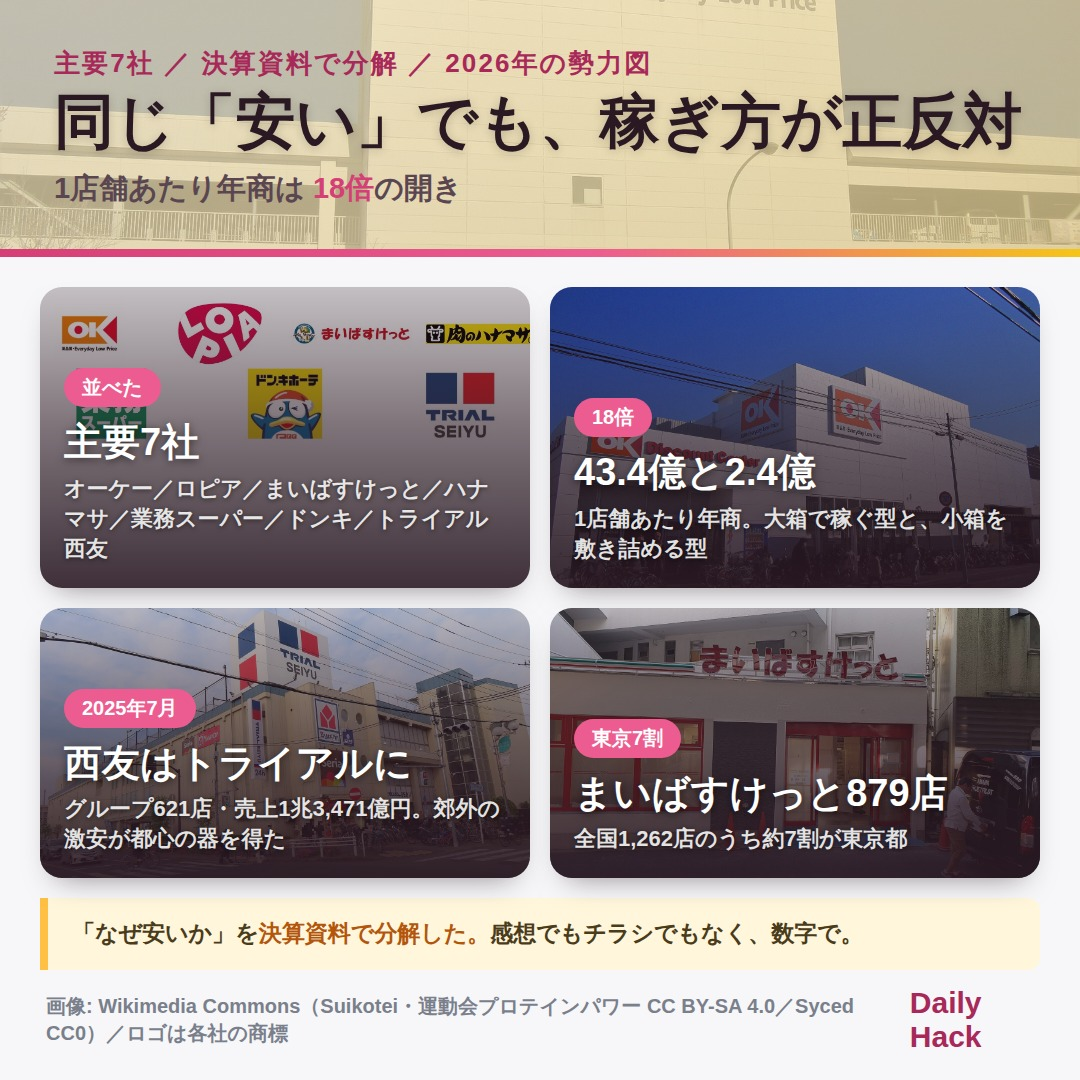
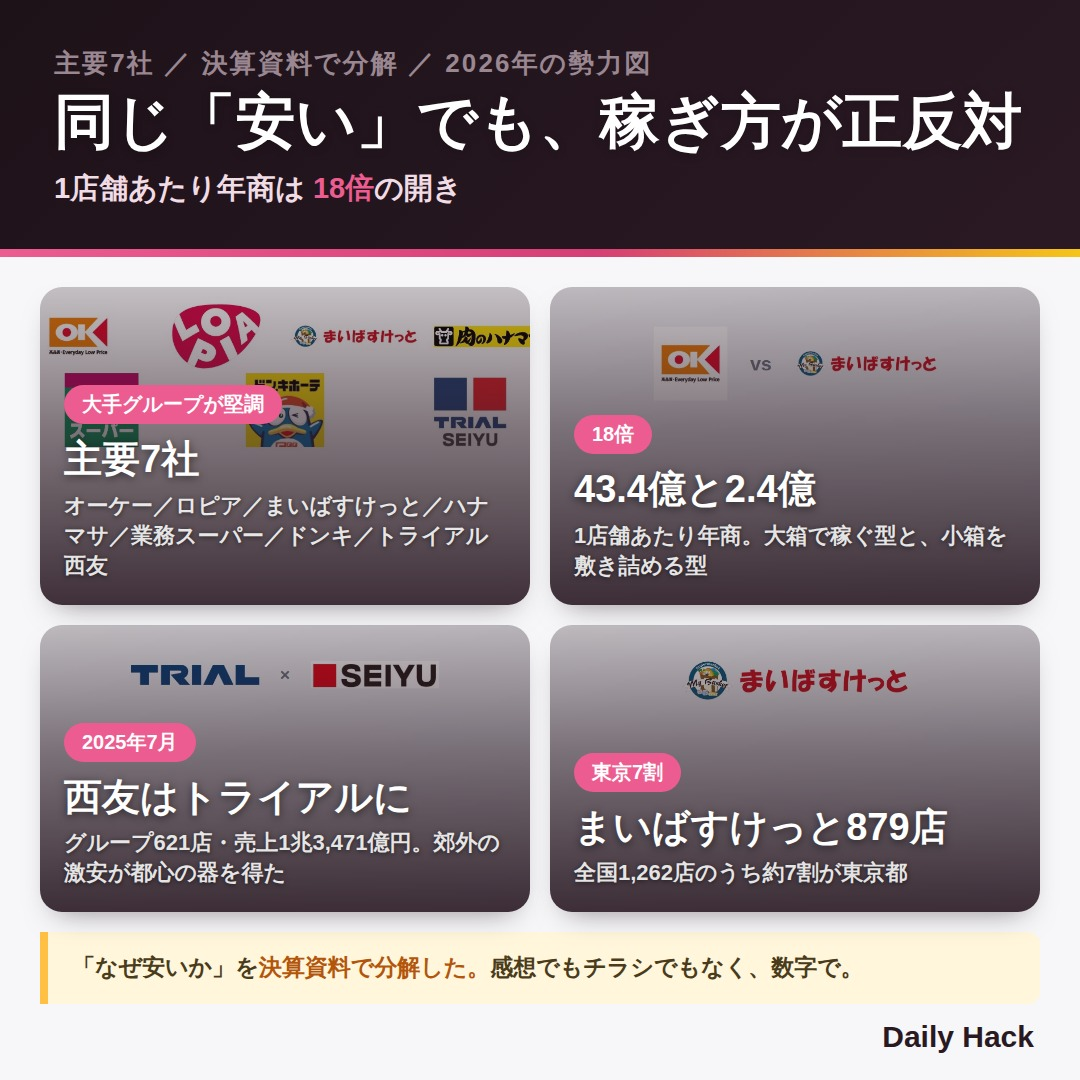
fix: 格安スーパーの指摘 6 件を反映 ＋「出所は出さない」を既定にした
## 受けた指摘（レビューページ）

| どこ | 指摘 | 直し |
| --- | --- | --- |
| 1枚目 見出し | **フォントが今までと全く違う。なぜ今回だけ変えたのか** | **書体は変えていない**（全部 Noto Sans JP）。変わっていたのは**テーマ**で、`cream` だけが明るい帯＋濃い文字に**反転**する。`ink` にして他と揃えた |
| 1枚目 カード | **「並べた」って言葉が短絡的すぎる／「大手グループが堅調」に** | バッジを差し替え |
| 1〜4枚目 下端 | **出所不要。今後もいらないからメモリに記録して**（計 4 件） | 下記 |

## 「出所を消す」だけでは済まなかった

`credit` は**権利表記**で、**CC BY / CC BY-SA は表記がライセンスの条件**。
黙って消すと違反になる。**だから素材のほうを変えた。**

`photos/_manifest.json` を見たら、写真 11 枚のうち**表記が要らないのは CC0 の 2 枚だけ**
（`hanamasa-prices` / `maibasket-shirokane`）。残りは CC BY-SA か「引用」だった。

そこで **CC BY-SA の写真を全部 外し**、各社ロゴの合成（商標・識別目的）に置き換えた。

- 帯の背景（`ok-kitayamata` CC BY-SA）→ **無地**
- カード2（`ok-hiyoshi`）→ **オーケー × まいばすけっとのロゴ**
- カード3（`trial-seiyu-hanakoganei`）→ **トライアル × 西友のロゴ**
- カード4 → **まいばすけっとのロゴ**
- 2枚目 → **`maibasket-shirokane`（CC0・実写）**
- 3枚目 → `hanamasa-prices`（CC0）のまま、`credit` だけ削除
- 4枚目（`ok-isehara`）→ **オーケー／トライアル西友／ロピアのロゴ**

**これで出所の行そのものが不要になった。** `_note` に「なぜ出所が無いか」を残してある。

## ロゴを全面に使うと、白い見出しが埋もれた

ロゴは白背景のものが多い。**全面用は下 40% を暗くしてから**文字を乗せる。
（途中で `<body>` を二重に書いてしまい、**ロゴが左にずれて画面外に出た。**
背景はクラスではなく style に直接 入れる形に直した）

## 文面

レビューページで書き換えられた 2 本をそのまま取り込んだ。

    super [1/2] 237 / 280（余裕 43）
    super [2/2] 190 / 280（余裕 90）

## メモリに記録した（指示どおり）

- `CLAUDE.md` 最上位ルール 8 に「**告知画像に出所の行を出さない**」を追加。
  **使ってよい素材 / 使わない素材**の表つき
- `x-post-images` スキル §0 のルール 4 を差し替え、**§3 を全面的に書き直した**。
  サンプル JSON からも `source` / `credit` を外した（そのまま写されるため）

## 費用

**LLM を呼ばない。** 1 回 $0 / 1 日 $0 / 1 か月 $0。
[…]

diff --git a/scripts/image-review/page.html b/scripts/image-review/page.html
@@ -234,10 +234,10 @@
     {
       key: "super", title: "都心の格安スーパー 2026", slug: "tokyo-discount-supermarket-2026",
       images: [
-        { file: "1-summary.jpg",     name: "表紙（4カード）", cap: "同じ「安い」でも、稼ぎ方が正反対" },
-        { file: "2-trial-seiyu.jpg", name: "2枚目",          cap: "西友の建物に「TRIAL SEIYU」" },
-        { file: "3-hanamasa.jpg",    name: "3枚目",          cap: "965gで、税込927円" },
-        { file: "4-tv.jpg",          name: "4枚目",          cap: "くるみパン259円、カツ丼299円" }
+        { file: "1-summary.jpg",   name: "表紙（4カード）", cap: "同じ「安い」でも、稼ぎ方が正反対" },
+        { file: "2-maibasket.jpg", name: "2枚目",          cap: "1,262店のうち879店が東京都" },
+        { file: "3-hanamasa.jpg",  name: "3枚目",          cap: "965gで、税込927円" },
+        { file: "4-tv.jpg",        name: "4枚目",          cap: "くるみパン259円、カツ丼299円" }
       ]
     }
   ];

diff --git a/.claude/skills/x-post-images/SKILL.md b/.claude/skills/x-post-images/SKILL.md
@@ -20,7 +20,7 @@ node scripts/gen-x-cards.mjs ops/data/x-cards/<slug>.json
 | 1 | **正方形 1080×1080。** ブログのアイキャッチ（1600×900）を流用しない | タイムラインでの占有面積が小さくなる |
 | 2 | **同じ画像を 2 度使わない。** 投稿ごと・スレッドの位置ごとに別の絵 | 手抜きに見える。実際に指摘された |
 | 3 | **2 枚目以降はアイキャッチではなく実写。** 記事内の実物写真を使う | 何の店か伝わらない |
-| 4 | **出典を画像の中に焼き込む** | X では画像だけが独り歩きする |
+| 4 | **出所の行は出さない**（2026-09-20）。だから**権利表記が要る素材を使わない**（§3） | 消すだけだとライセンス違反。素材ごと変える |
 | 5 | **出す前に `Read` で全部開いて自分の目で見る** | 灰色の空カードが黙って出力される（実際に起きた） |
 | 6 | **キャラを置いたら下端の切り口を見る。** `mask-image` で溶かす | 白いセーラー服の裾が四角い箱に見える（実際に指摘された） |
 | 7 | **1 枚目の帯は、その場所の実写を薄く敷く**（`bgImage`）。**キャラは置かない** | どの記事でも同じ絵になり、帯を見ても どこの話か分からない（§1 が既定の作り方） |
@@ -29,8 +29,8 @@ node scripts/gen-x-cards.mjs ops/data/x-cards/<slug>.json
 
 | 位置 | 種類 | 中身 |
 | --- | --- | --- |
-| 1 枚目 | `cover` | **帯（背景に実写を薄く）** ＋ **カード格子** ＋ 黄色の注記 ＋ 出典 |
-| 2 枚目〜 | `photo` | 実写を全面 ＋ 下に 施設名・売り・スペック・出典 |
+| 1 枚目 | `cover` | **帯（背景に実写を薄く）** ＋ **カード格子** ＋ 黄色の注記（**出所は出さない**・§3） |
+| 2 枚目〜 | `photo` | 実写を全面 ＋ 下に 施設名・売り・スペック（**出所は出さない**・§3） |
 
 **カードは記事の `.event-pick`（`src/styles/global.css`）と同じ骨格。**
 
@@ -51,7 +51,7 @@ node scripts/gen-x-cards.mjs ops/data/x-cards/<slug>.json
   "columns": 2,
   "cards": [ /* 6 枚 */ ],
   "note":   "<b>いちばん効く一文。</b>補足",
-  "source": "画像: ◯◯ プレスリリース／◯◯ 公式",
+  // **`source` は書かない**（§3）。`credit` も同じ
   "theme":  "plum"
 }
 ```
@@ -71,7 +71,7 @@ node scripts/gen-x-cards.mjs ops/data/x-cards/<slug>.json
 
 1. **スクリムを重ねる**（`.bgscrim`）。写真の明るい部分で `kicker` が沈む。
    生成側が自動で入れるので JSON には書かない
-2. **借りている写真なら `source` にクレジットを出す。** 帯に敷いても引用は引用
+2. **借りている写真は敷かない。** 出所の行を出さないので、表記が要る素材は使えない（§3）
 3. **素材に無いものを、有るように扱わない。** IKEA豊洲では
    **ららぽーとの外観写真が無かった**ので、店舗入口で代えた。
    **代えたことを利用者に言う**（黙って近い絵を使わない）
@@ -127,15 +127,15 @@ node scripts/gen-x-cards.mjs ops/data/x-cards/<slug>.json
         "title": "スパ＆ホテル<br>舞浜ユーラシア",           // br で折る
         "meta": "千葉・舞浜／70人収容の展望サウナ" }
     ],
-    "note": "この6つを含めて<b>首都圏で17施設。</b>",       // b はオレンジになる
-    "source": "出典: 各施設公式 ほか"
+    "note": "この6つを含めて<b>首都圏で17施設。</b>"        // b はオレンジになる
+    // **`source` は書かない**（§3）
   },
   "photos": [
     { "file": "2-maihama.jpg", "img": "facilities/maihama.jpg",
       "badge": "♻ 1/15 リニューアル", "name": "スパ＆ホテル 舞浜ユーラシア",
       "lead": "70人収容・<b>国内最大級の開口面積</b>の展望サウナ",
-      "specs": ["千葉・舞浜", "2,100円〜", "男女"],
-      "credit": "画像: スパ＆ホテル 舞浜ユーラシア 公式" }
+      "specs": ["千葉・舞浜", "2,100円〜", "男女"] }
+      // **`credit` は書かない**（§3）。書かずに済む素材だけを使う
   ]
 }
 ```
@@ -165,25 +165,47 @@ node scripts/gen-x-cards.mjs ops/data/x-cards/<slug>.json
 > ビットマップを拾うと縁が出るうえライセンス表記も要る。
 > どうしても実物が要るなら `ops/tasks` 経由で Mac に取らせる（Mac からは届く）。
 
-## 3. 出典は必ず画像の中へ
+## 3. 出所の行は出さない。**だから素材のほうを選ぶ**
 
-施設写真の多くは各施設の**公式サイト**から取っている（CC ではない）。
-記事の中なら `figcaption` に出典があるが、**X に出すと画像だけが独り歩きする。**
+**2026-09-20 に指示された。**
 
-**記事の `figcaption` と同じクレジットを `credit` に書く。**
-記事の外に出す画像は、記事の外でも出典が読めなければならない。
+> 出所不要。今後もいらないからメモリに記録して。
 
-### ただし「権利表記」と「中身の担保」を分ける
+**`source` も `credit` も出さない。** 1 枚目の下端も、2 枚目以降の下端も空にする。
 
-2026-09-05 に **1 枚目の出典行を消すよう指示された**（「公式サイトで確認」を
-帯と下端で 2 回 見せていて、告知としてくどかった）。**この既定は利用者の指示より上ではない。**
+### 消すだけでは済まない
 
-| | 例 | 消してよいか |
-| --- | --- | --- |
-| **権利表記** | `credit`「画像: 松屋フーズ 公式サイト」——**他人の写真を借りている** | **消さない** |
-| **中身の担保** | `source`「出典: 各チェーン公式サイト」——値段の裏取りを示すだけ | **本文で言えるなら外してよい** |
+`credit` は**権利表記**で、**CC BY / CC BY-SA は表記がライセンスの条件**である。
+黙って消すと違反になる。**だから素材のほうを変える。**
 
-迷ったら「①他人の著作物を載せているか → 残す ②事実の裏取りか → 本文で言えるなら外す」。
+| 使ってよい（表記が要らない） | 使わない（表記が要る） |
+| --- | --- |
+| **CC0 / パブリックドメイン** | **CC BY**（表示） |
+| **各社のロゴ**（商標・識別目的。CLAUDE.md 最上位ルール 17） | **CC BY-SA**（表示・継承） |
+| **App Store 掲載素材**（記事で使っているもの） | 「引用（出典表記）」の素材 |
+| **自分で作った図・合成** | 各施設の公式サイトから借りた写真 |
+
+### 組む前にライセンスの一覧を見る
+
+```bash
+cat public/images/<slug>/photos/_manifest.json
+```
+
+**CC BY-SA しか無い題材なら、ロゴと数字のカードで組み直す。**
+実際にそうした（2026-09-20・都心の格安スーパー）。写真 11 枚のうち使えたのは
+**CC0 の 2 枚だけ**だったので、残りは各社ロゴの合成に置き換えた。
+
+**`ops/data/x-cards/<slug>.json` の `_note` に「なぜ出所が無いか」を書き残す。**
+あとから CC BY-SA を戻す人が、出所の行も戻せるように。
+
+### ロゴを全面に使うときは、下を暗くする
+
+ロゴは白背景のものが多く、**明るい画像になって白い見出しが埋もれる**（実際に埋もれた）。
+
+| | やること |
+| --- | --- |
+| 全面用（1080×1080） | **下 40% を暗くしてから**文字を乗せる |
+| カード用（1000×560） | **絵を上側に置く**（下半分に濃いグラデーションと文字が来る）。横は `cover` で**左右 17% ずつ切れる**ので中央 66% に収める |
 
 ## 4. 落とし穴（全部 実際に踏んだ）
 
@@ -234,6 +256,10 @@ node scripts/gen-x-cards.mjs ops/data/x-cards/<slug>.json
 | 2026-09-20 | **ヘルスリーも追加して／かつてはとんでもない爆益だった**（3 枚目を指して） | 記事に裏が在った（`STEPN｜初期投資が要るのはここだけ`）。**2022年に GST が 500円ほど → 2026年1月時点で 1円未満。** 数字は必ず記事から引く。アプリ画面を 3 つ 並べる構成に変え、`credit` を消した |
 | 2026-09-20 | **アプリ画面を並べたら 1 枚だけ長くなって見出しに重なった**（自分で気づいた） | 記事のアプリ画面は**縦横比がバラバラ**。並べるときは **`aspect-ratio` で枠を決めて `object-fit: cover`** で切る。揃えないと 1 枚だけ伸びる |
 | 2026-09-20 | **`credit` を書かないと画像に `undefined` と出た**（自分で気づいた） | `gen-x-cards.mjs` が `f.credit` を無条件で出していた。`f.credit ?` で囲んだ。**権利表記が要らない素材だけで組む回**が今後もあるため |
+| 2026-09-20 | **出所不要。今後もいらないからメモリに記録して**（4 枚すべてに 1 件ずつ、計 4 回） | **§0 のルール 4 を「出典を焼き込む」から「出所の行は出さない」に変えた。** ただし消すだけでは済まない——`credit` は権利表記で、**CC BY / CC BY-SA は表記がライセンスの条件**。**素材のほうを変える。** 使えるのは **CC0・ロゴ（商標）・App Store 掲載素材・自作**だけ。写真 11 枚のうち CC0 は 2 枚だけだったので、残りはロゴ合成に置き換えた。`_note` に「なぜ出所が無いか」を残す |
+| 2026-09-20 | **フォントが今までのものと全く違うので直して。なぜ今回だけ変えたのかが理解できない** | **書体は変えていない**（全部 Noto Sans JP）。変わっていたのは**テーマ**で、`cream` だけが**明るい帯＋濃い文字に反転する**。他の記事は暗い帯＋白文字なので、並べると別物に見えた。`ink` に変えて揃えた。**`cream` は「暗い画像が多い中で明るく浮かせたい」とき専用**で、既定にしない |
+| 2026-09-20 | **「並べた」って言葉が短絡的すぎるよ／「大手グループが堅調」にして** | バッジを差し替えた。**バッジは「何をしたか」ではなく「何が分かったか」を書く。**「並べた」「調べた」はこちらの作業の説明であって、読む人には価値がない |
+| 2026-09-20 | **ロゴ合成を全面に使うと、白い見出しが埋もれた**（自分で気づいた） | ロゴは白背景のものが多く、明るい画像になる。**全面用は下 40% を暗くしてから**文字を乗せる。カード用（横長）は**絵を上側に置く**（下半分に濃いグラデーションと文字が来る） |
 <!-- 追記はこの表の下に。日付・指摘・反映 の 3 列を必ず埋める -->
 
 ## 7. 関連

diff --git a/CLAUDE.md b/CLAUDE.md
@@ -263,6 +263,32 @@ Skill(skill="x-post-images")   ← 実体は .claude/skills/x-post-images/SKILL.
 `page.setContent()` では `file://` の画像が読めず、**灰色の空カードがエラーも出さずに
 出力される**という穴も同時に踏んでいる。手順と落とし穴をスキルに書いてある。
 
+#### 告知画像に「出所」の行を出さない（2026-09-20 に指示・例外なし）
+
+> 出所不要。今後もいらないからメモリに記録して。
+
+**X の告知画像には、画像の出所を書かない。** 1 枚目の `source` も、2 枚目以降の
+`credit` も出さない。同じ指摘を **2026-09-20 に 2 記事で計 5 回**受けた。
+
+**ただし「消す」だけでは済まない。** `credit` は権利表記で、**CC BY / CC BY-SA は
+表記がライセンスの条件**だから、黙って消すと違反になる。**だから素材のほうを変える。**
+
+| 使ってよい（表記が要らない） | 使わない（表記が要る） |
+| --- | --- |
+| **CC0 / パブリックドメイン** | **CC BY**（表示） |
+| **各社のロゴ**（商標・識別目的。最上位ルール 17） | **CC BY-SA**（表示・継承） |
+| **App Store 掲載素材**（記事で使っているもの） | 「引用（出典表記）」の素材 |
+| **自分で作った図・合成** | |
+
+**素材の一覧に当たってから組む。** `public/images/<slug>/photos/_manifest.json` に
+ライセンスが入っている。**CC BY-SA しか無い題材なら、ロゴと数字のカードで組み直す。**
+
+実際にそうした（2026-09-20・都心の格安スーパー）。写真 11 枚のうち使えたのは
+**CC0 の 2 枚だけ**だったので、残りは各社ロゴの合成に置き換えて出所の行を消した。
+
+**`ops/data/x-cards/<slug>.json` の `_note` に「なぜ出所が無いか」を書き残す。**
+あとから CC BY-SA を戻す人が、出所の行も戻せるように。
+
 #### 画像の確認は、レビューページでもらう（2026-09-20 に指示）
 
 > ブログ記事みたいに、作ってもらった画像の箇所を指定してコメントできる機能を作ってほしい
